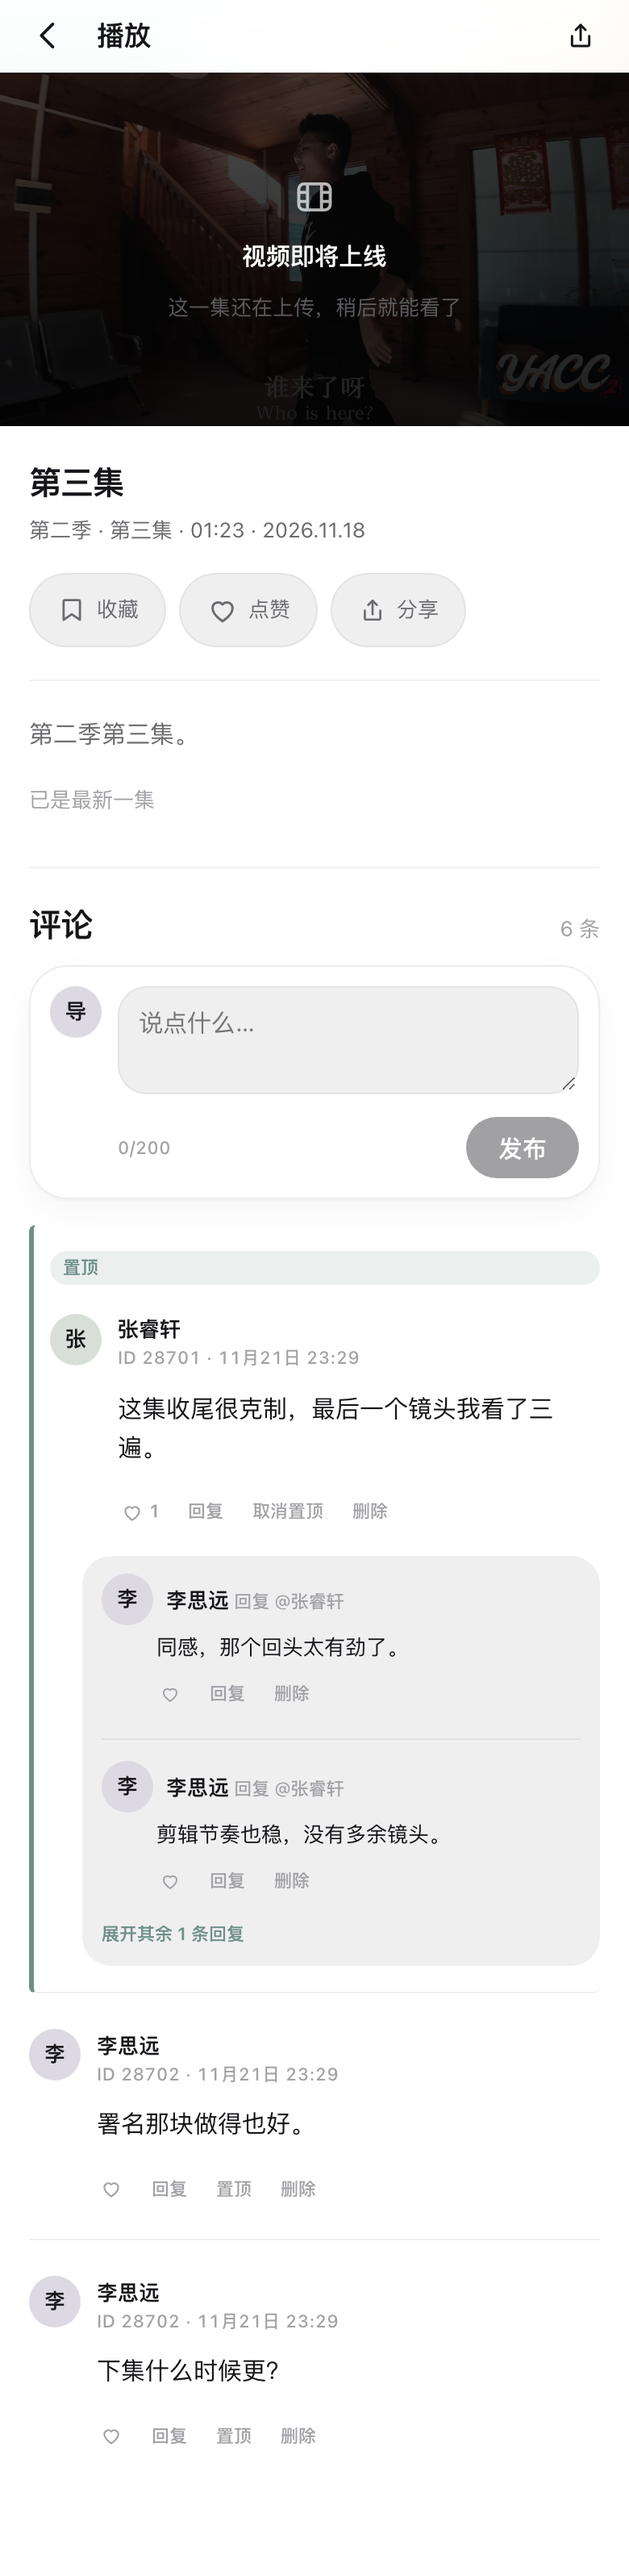
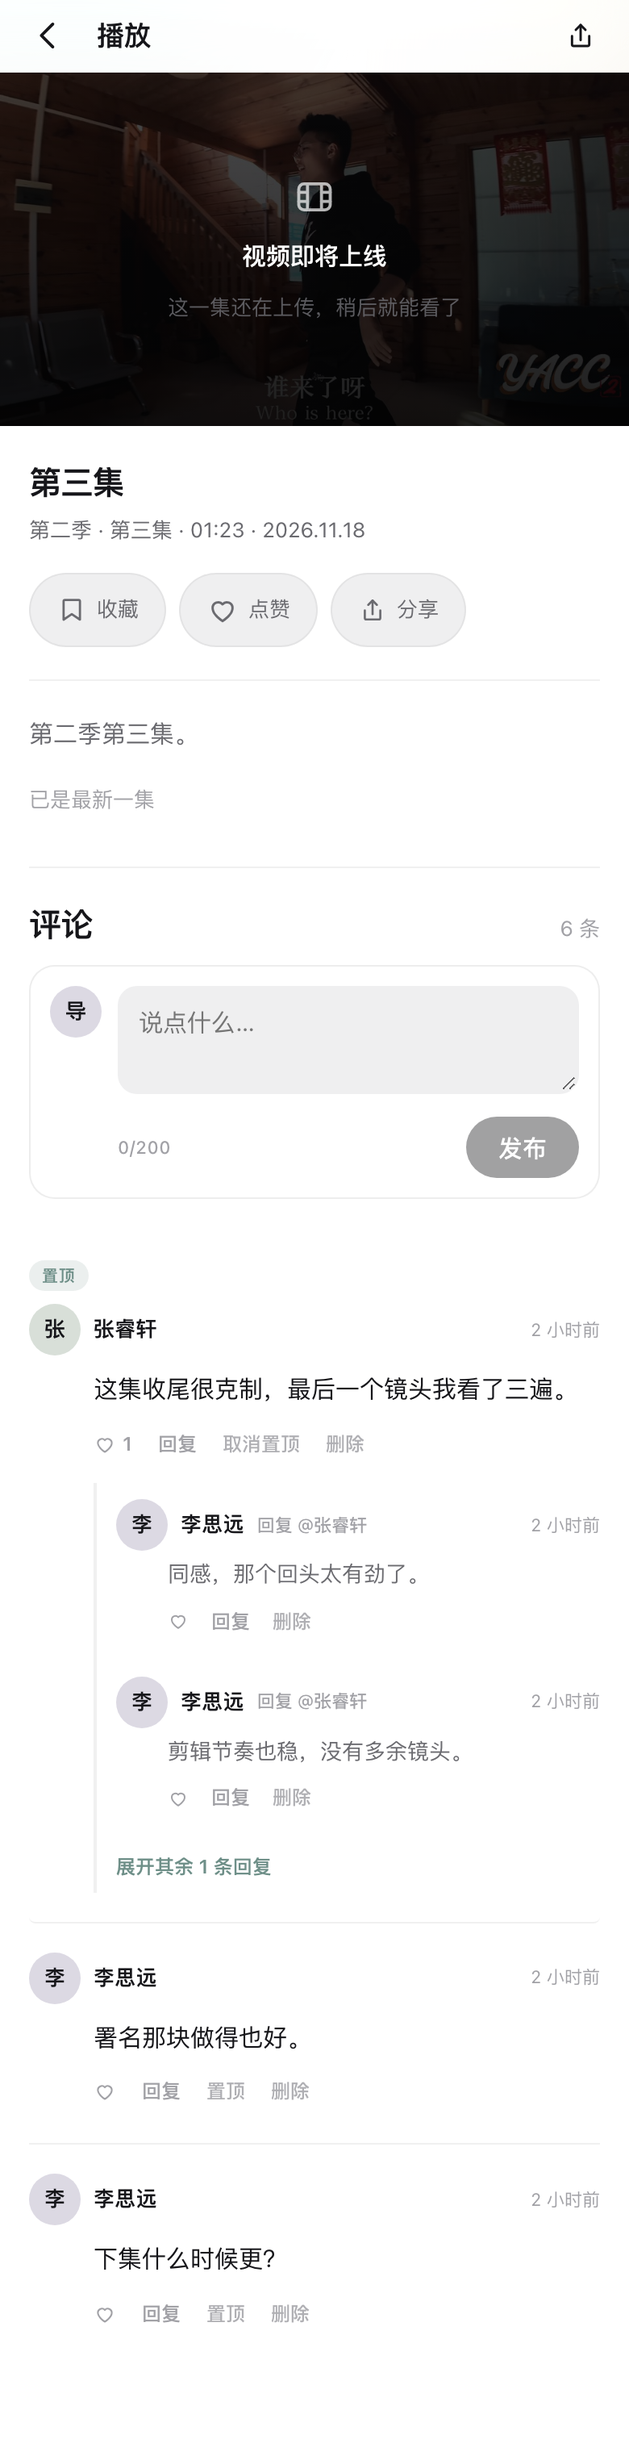
评论区 UI 精修：去掉编号噪音、改用相对时间、楼中楼改为细线缩进

diff --git a/src/styles/components.css b/src/styles/components.css
@@ -2247,3 +2247,186 @@ select.input {
   margin-top: 10px;
   padding-left: 42px;
 }
+
+/* ============================================================
+   评论区 v2：更轻、更整齐
+   ============================================================ */
+
+.comment {
+  display: block;
+  padding: 18px 0;
+  border-bottom: 1px solid var(--glass-edge);
+}
+
+.comment:last-child {
+  border-bottom: 0;
+}
+
+.comment__head {
+  display: flex;
+  align-items: center;
+  justify-content: space-between;
+  gap: 10px;
+}
+
+.comment__who {
+  display: inline-flex;
+  align-items: center;
+  gap: 8px;
+  min-height: 0;
+  padding: 0;
+  border-radius: 8px;
+}
+
+.comment__author {
+  font-size: 13px;
+  font-weight: 600;
+  letter-spacing: 0.1px;
+}
+
+.comment__time {
+  flex: 0 0 auto;
+  font-size: 11px;
+  color: var(--text-3);
+  font-variant-numeric: tabular-nums;
+}
+
+.comment__body {
+  margin-top: 8px;
+  padding-left: 40px;
+  font-size: 15px;
+  line-height: 1.65;
+  white-space: pre-wrap;
+  word-break: break-word;
+}
+
+.comment__actions {
+  display: flex;
+  align-items: center;
+  gap: 16px;
+  margin-top: 8px;
+  padding-left: 40px;
+}
+
+.act {
+  display: inline-flex;
+  align-items: center;
+  gap: 4px;
+  min-height: 28px;
+  padding: 0;
+  background: none;
+  border: 0;
+  color: var(--text-3);
+  font-size: 12px;
+  font-weight: 600;
+}
+
+.act.faint {
+  font-weight: 500;
+  opacity: 0.85;
+}
+
+.comment--pinned {
+  padding-left: 0;
+  border-left: 0;
+}
+
+.pin-badge {
+  display: inline-flex;
+  align-items: center;
+  margin-bottom: 8px;
+  padding: 2px 8px;
+  border-radius: var(--r-pill);
+  background: var(--accent-weak);
+  color: var(--accent);
+  font-size: 10px;
+  font-weight: 700;
+  letter-spacing: 0.4px;
+}
+
+.replies {
+  margin: 10px 0 0 40px;
+  padding: 0 0 0 12px;
+  border-left: 2px solid var(--glass-edge);
+  background: none;
+  border-radius: 0;
+}
+
+.reply {
+  padding: 10px 0;
+}
+
+.reply + .reply {
+  margin-top: 0;
+  padding-top: 10px;
+  border-top: 0;
+}
+
+.reply__head {
+  display: flex;
+  align-items: center;
+  gap: 8px;
+}
+
+.reply__who {
+  min-height: 0;
+  gap: 8px;
+}
+
+.reply__to {
+  font-size: 11px;
+  color: var(--text-3);
+  font-weight: 500;
+}
+
+.reply__body {
+  margin-top: 4px;
+  padding-left: 32px;
+  font-size: 13.5px;
+  line-height: 1.6;
+  color: var(--text-2);
+}
+
+.reply .comment__actions {
+  padding-left: 32px;
+  margin-top: 4px;
+  gap: 14px;
+}
+
+.replies__more {
+  margin-top: 4px;
+  padding: 6px 0;
+  background: none;
+  border: 0;
+  color: var(--accent);
+  font-size: 12px;
+  font-weight: 600;
+}
+
+.reply__composer {
+  display: flex;
+  align-items: center;
+  gap: 8px;
+  margin-top: 8px;
+  padding-left: 32px;
+}
+
+.composer {
+  gap: 10px;
+  padding: 12px;
+  border-radius: 16px;
+  background: var(--glass-surface);
+  border: 1px solid var(--glass-border);
+  box-shadow: none;
+}
+
+.composer__input {
+  border-radius: 12px;
+  border: 1px solid transparent;
+  background: var(--control-bg);
+}
+
+.composer__input:focus {
+  border-color: var(--accent);
+  box-shadow: 0 0 0 3px var(--accent-weak);
+}

diff --git a/src/components/Comments.tsx b/src/components/Comments.tsx
@@ -5,7 +5,7 @@ import { api, type CommentItem } from '../lib/api'
 import { Icon } from './Icon'
 import { Avatar } from './ui'
 import { useConfirm } from './ui'
-import { formatDateTime } from '../lib/format'
+import { relativeTime } from '../lib/format'
 import { usePolling } from '../hooks/usePolling'
 
 const MAX = 200
@@ -222,15 +222,15 @@ export function Comments({
 
   const renderReply = (c: CommentItem) => (
     <div key={c.id} className="reply">
-      <Link to={`/u/${c.uid}`} className="comment__who reply__who">
-        <Avatar name={c.author} src={c.avatar} size={32} />
-        <span className="grow">
+      <div className="reply__head">
+        <Link to={`/u/${c.uid}`} className="comment__who reply__who">
+          <Avatar name={c.author} src={c.avatar} size={32} />
           <span className="comment__author">{c.author}</span>
-          {c.replyToName ? (
-            <span className="reply__to"> 回复 @{c.replyToName}</span>
-          ) : null}
-        </span>
-      </Link>
+        </Link>
+        {c.replyToName ? <span className="reply__to">回复 @{c.replyToName}</span> : null}
+        <span className="grow" />
+        <span className="comment__time">{relativeTime(c.createdAt)}</span>
+      </div>
       <p className="reply__body">{c.body}</p>
       <div className="comment__actions">
         <button
@@ -337,15 +337,13 @@ export function Comments({
               <div key={c.id} className={`comment${c.pinned ? ' comment--pinned' : ''}`}>
                 {c.pinned ? <span className="pin-badge">置顶</span> : null}
 
-                <Link to={`/u/${c.uid}`} className="comment__who" aria-label={`查看 ${c.author} 的主页`}>
-                  <Avatar name={c.author} src={c.avatar} size={32} />
-                  <span className="grow">
+                <div className="comment__head">
+                  <Link to={`/u/${c.uid}`} className="comment__who" aria-label={`查看 ${c.author} 的主页`}>
+                    <Avatar name={c.author} src={c.avatar} size={32} />
                     <span className="comment__author">{c.author}</span>
-                    <span className="t-tag faint t-num" style={{ display: 'block' }}>
-                      ID {c.uid} · {formatDateTime(c.createdAt)}
-                    </span>
-                  </span>
-                </Link>
+                  </Link>
+                  <span className="comment__time">{relativeTime(c.createdAt)}</span>
+                </div>
 
                 <p className="comment__body">{c.body}</p>
 

diff --git a/src/lib/format.ts b/src/lib/format.ts
@@ -146,3 +146,21 @@ export function cnNum(n: number): string {
   }
   return String(value)
 }
+
+
+/** 刚刚 / 5 分钟前 / 3 小时前 / 昨天 / 11月20日 */
+export function relativeTime(iso: string): string {
+  const t = new Date(iso).getTime()
+  if (!Number.isFinite(t)) return ''
+  const diff = Date.now() - t
+  const min = Math.floor(diff / 60_000)
+  if (min < 1) return '刚刚'
+  if (min < 60) return `${min} 分钟前`
+  const hour = Math.floor(min / 60)
+  if (hour < 24) return `${hour} 小时前`
+  const day = Math.floor(hour / 24)
+  if (day === 1) return '昨天'
+  if (day < 7) return `${day} 天前`
+  const d = new Date(iso)
+  return `${d.getMonth() + 1}月${d.getDate()}日`
+}
